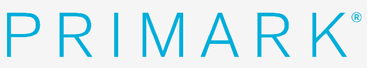
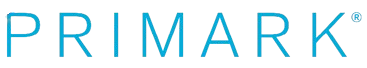
Reduction taille trop imposante

diff --git a/static/css/styles.css b/static/css/styles.css
@@ -940,7 +940,7 @@ footer {
 .container {
     display: flex;
     gap:50px;
-    height: 150vh;
+    height: 120vh;
     margin-top: 35px;
     padding-top: 40px;
     justify-content: space-between;
@@ -982,6 +982,7 @@ footer {
   .droite {
     flex: 1;
     position: relative;
+
   }
   
   .image-droite {
